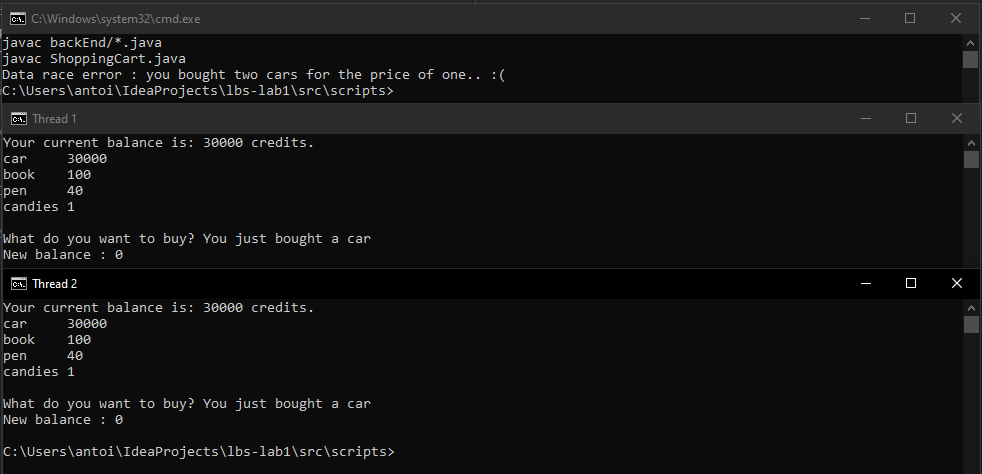
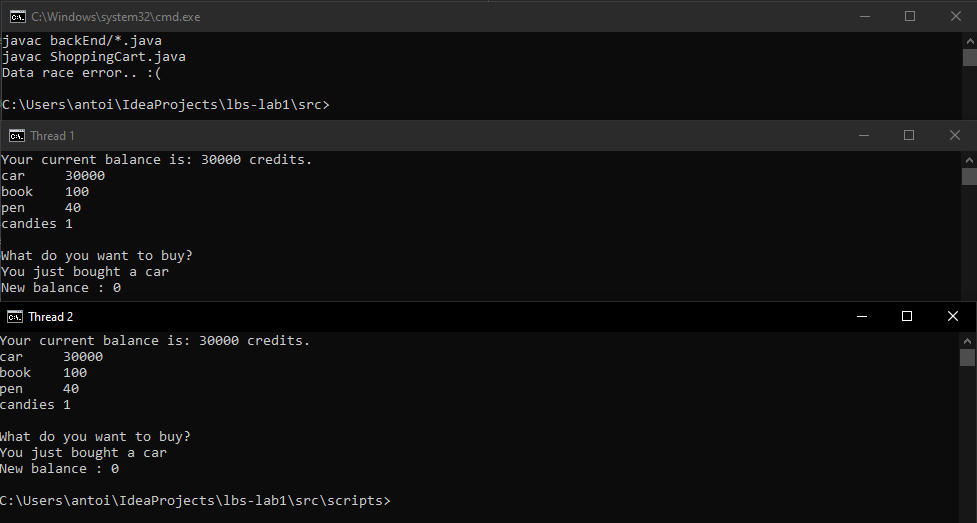
updated project

diff --git a/README.md b/README.md
@@ -4,13 +4,29 @@
 
 ### Part 0 : About source code
 
-- All our code is located in the `src` folder, it contains several elements :
+All our code is located in the `src/` folder, it contains several elements :
     - `ShoppingCart` class, where our main function is located.
     - `backEnd/` folder, where classes that manage our pocket, our wallet and the store are located.
     - a `Makefile`, that can automatically build our project or manage the wallet and pocket text files.
     - `scripts/` folder, where we implemented some batch scripts to automate coherence checking, automatize products buying, etc.
     - `run_candies.bat` and `run_car.bat` scripts, that you can run in order to check whether or not data races problems occur.
+    
+If you just want to compile and run the program, you can type the commands above in your shell, when you are in the `src` folder
 
+```bash
+make
+java ShoppingCart
+```
+
+You will next been asked to choose what product you want top buy
+For the two batch scripts `run_candies.bat` and `run_car.bat` (we will talk about them later in the report) you can simply type, located in the `src/` folder
+
+```bash
+run_candies.bat
+run_car.bat 
+```
+
+located
 
 ### Part 1 : Exploit your program
 
@@ -44,10 +60,12 @@
 - The `safeWithdraw` function is implemented in the `Wallet` class.
 - The `Pocket` class also suffers from possible race conditions, since it contains a method that is able to perform a write in a file. We have to ensure that this is done in a thread-safe manner.
 - These protections are enough because `Pocket` & `Wallet` classes were the only ones that were allowed to perform any form of writing and since all other classes don't rely on data writes in order to run, we are sure that our program does not contain data races issues anymore.
+- To fix this program, we used a lock to perform operations in parallel without incoherence between our wallet and pocket files. A FileLock class is used for each file to ensure that critical functions are not executed at the same time. `FileLock lock = file.getChannel().lock();` is a blocking call, meaning that each thread will wait to obtain the lock to write or read the files.
+
 
 ![Thread-Safe Version](/assets/lab1/thread-safe.PNG)
 
-The thread safe withdraw function implemented in `Wallet` class 
+The thread safe withdraw function implemented in `Wallet` class :
    
 ```java
 
@@ -65,7 +83,23 @@ public void safeWithdraw(int valueToWithdraw) throws Exception {
 
 ```
 
-The thread safe pocket adding implemented in `Pocket` class
+The `getBalance` function had to be rewritten since an error can occur it we don't use the FileLock class in this section :
+
+```java
+
+
+public int getBalanceThreadSafe() throws IOException {
+        FileLock lock = file.getChannel().lock();
+        this.file.seek(0);
+        String line = this.file.readLine();
+        lock.release();
+        return Integer.parseInt(line);
+
+    }
+
+```
+
+The thread safe pocket adding implemented in `Pocket` class :
 
 ```java
 
@@ -78,7 +112,7 @@ public void safeAddProduct(String product) throws Exception {
 
 ```
 
-We also have to bring some changes to our main function in order to use safe-threaded functions
+We also have to bring some changes to our main function in order to use safe-threaded functions :
 
 ```java
 
@@ -89,7 +123,7 @@ We also have to bring some changes to our main function in order to use safe-thr
                 System.out.println("Your current balance is: " + wallet.getBalanceThreadSafe() + " credits.");
                 System.out.println(Store.asString());
         
-                System.out.print("What do you want to buy? ");
+                System.out.println("What do you want to buy? ");
                 Scanner scan = new Scanner(System.in);
                 String product = scan.nextLine();
         
@@ -99,7 +133,7 @@ We also have to bring some changes to our main function in order to use safe-thr
                     pocket.safeAddProduct(product);
                     System.out.println(String.format("Your new balance is: %d", wallet.getBalanceThreadSafe()));
                 } catch (Exception e) {
-                    e.printStackTrace();
+                    System.out.println(e.getMessage());
                 }
                 wallet.close();
                 pocket.close();
@@ -111,7 +145,7 @@ We also have to bring some changes to our main function in order to use safe-thr
 ```
 
 
-instead of 
+instead of :
 
 
 ```java
@@ -123,7 +157,7 @@ instead of
                 System.out.println("Your current balance is: " + wallet.getBalance() + " credits.");
                 System.out.println(Store.asString());
         
-                System.out.print("What do you want to buy? ");
+                System.out.println("What do you want to buy? ");
                 Scanner scan = new Scanner(System.in);
                 String product = scan.nextLine();
         
@@ -143,11 +177,10 @@ instead of
                     System.out.println("Not enough money in your wallet.. closing program !");
                     System.exit(0);
                 }
-        
-        
+                wallet.close();
+                pocket.close();
             }
 
 ```
 
-- To fix this program, we used a lock to perform operations in parallel without incoherence between our wallet and pocket files. A FileLock class is used for each file to ensure that critical functions are not executed at the same time. `FileLock lock = file.getChannel().lock();` is a blocking call, meaning that each thread will wait to obtain the lock to write or read the files.
 
